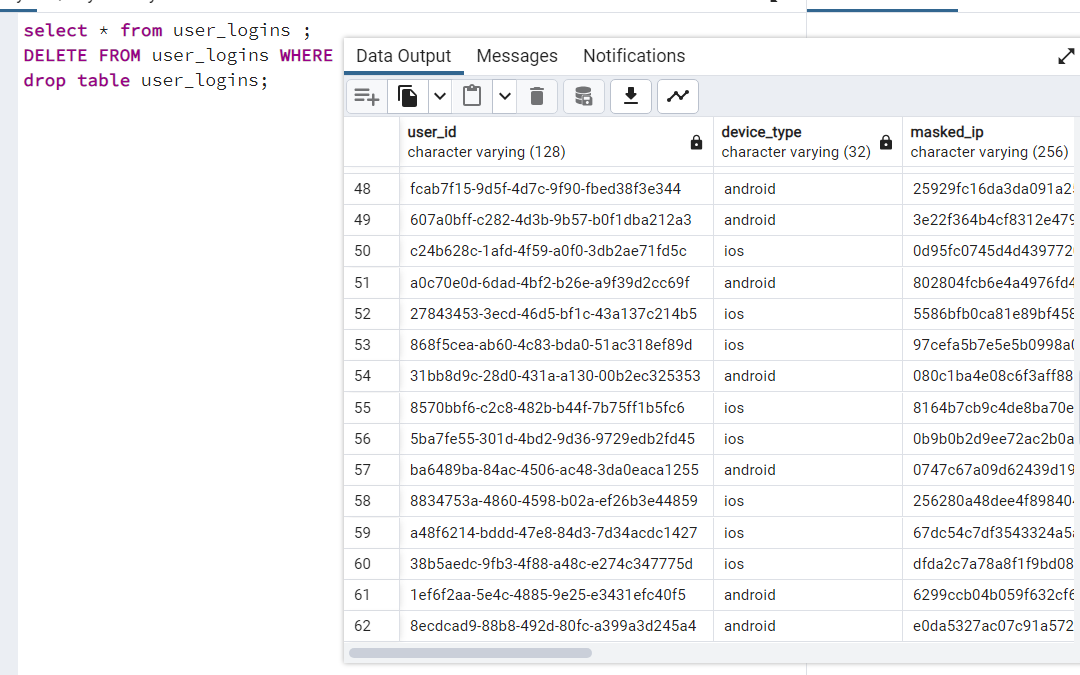
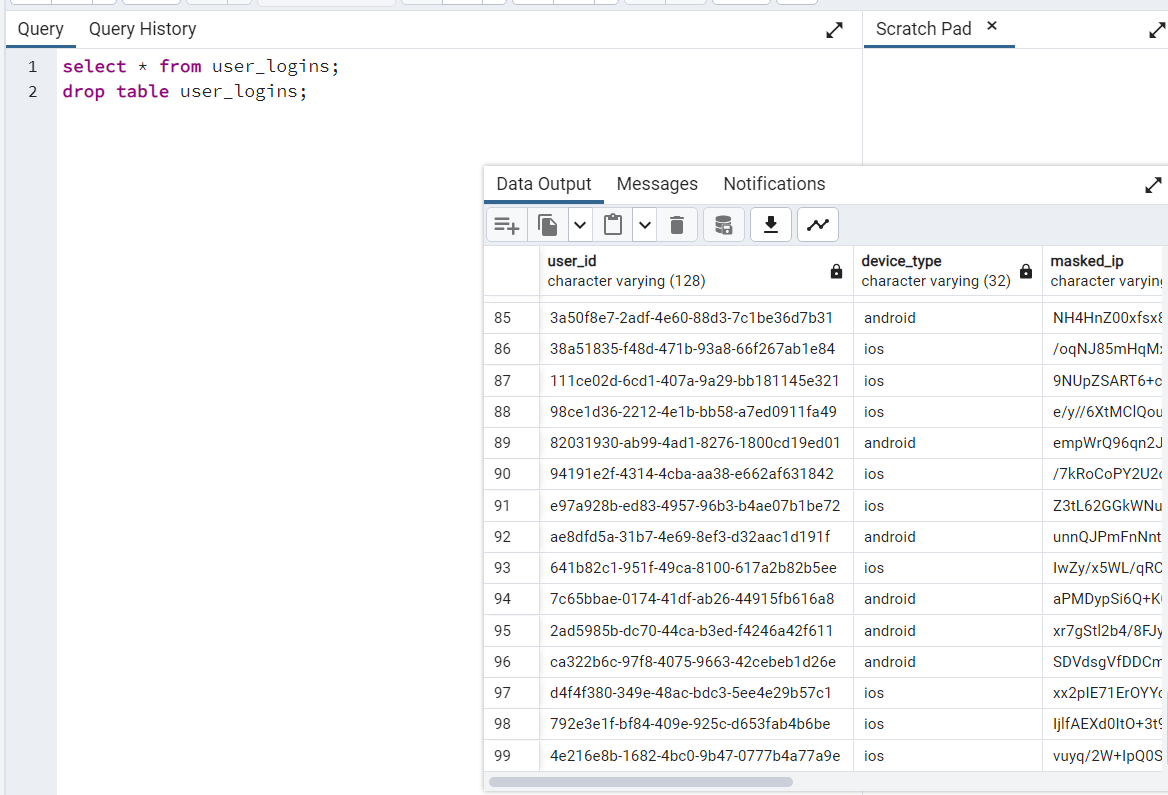
some progress

Changed region(s): [[0.0, 0.0, 1.0, 1.0], [0.9778, 0.0, 1.0, 0.0933]]

diff --git a/readme.md b/readme.md
@@ -120,7 +120,7 @@ This application is designed to efficiently and securely process messages from a
    
 
 10. **Run the Application**
-     ![image-20231009172035340](D:\github\ETL off an SQS Queue\ETL-off-an-SQS-Queue\result)
+    ![image-20231009172950800](https://github.com/LIANGYIXUAN3335/ETL-off-an-SQS-Queue/blob/main/image.png)
 ### Thoughts of design:
 1. **Privacy First**: Given the sensitivity of IP and Device IDs, I employed DES hashing to mask these fields. This ensures data privacy while maintaining the uniqueness and consistency of the data.
 2. **Reliability**: Messages are deleted from the queue only after successful processing and storage in PostgreSQL, ensuring data integrity.
